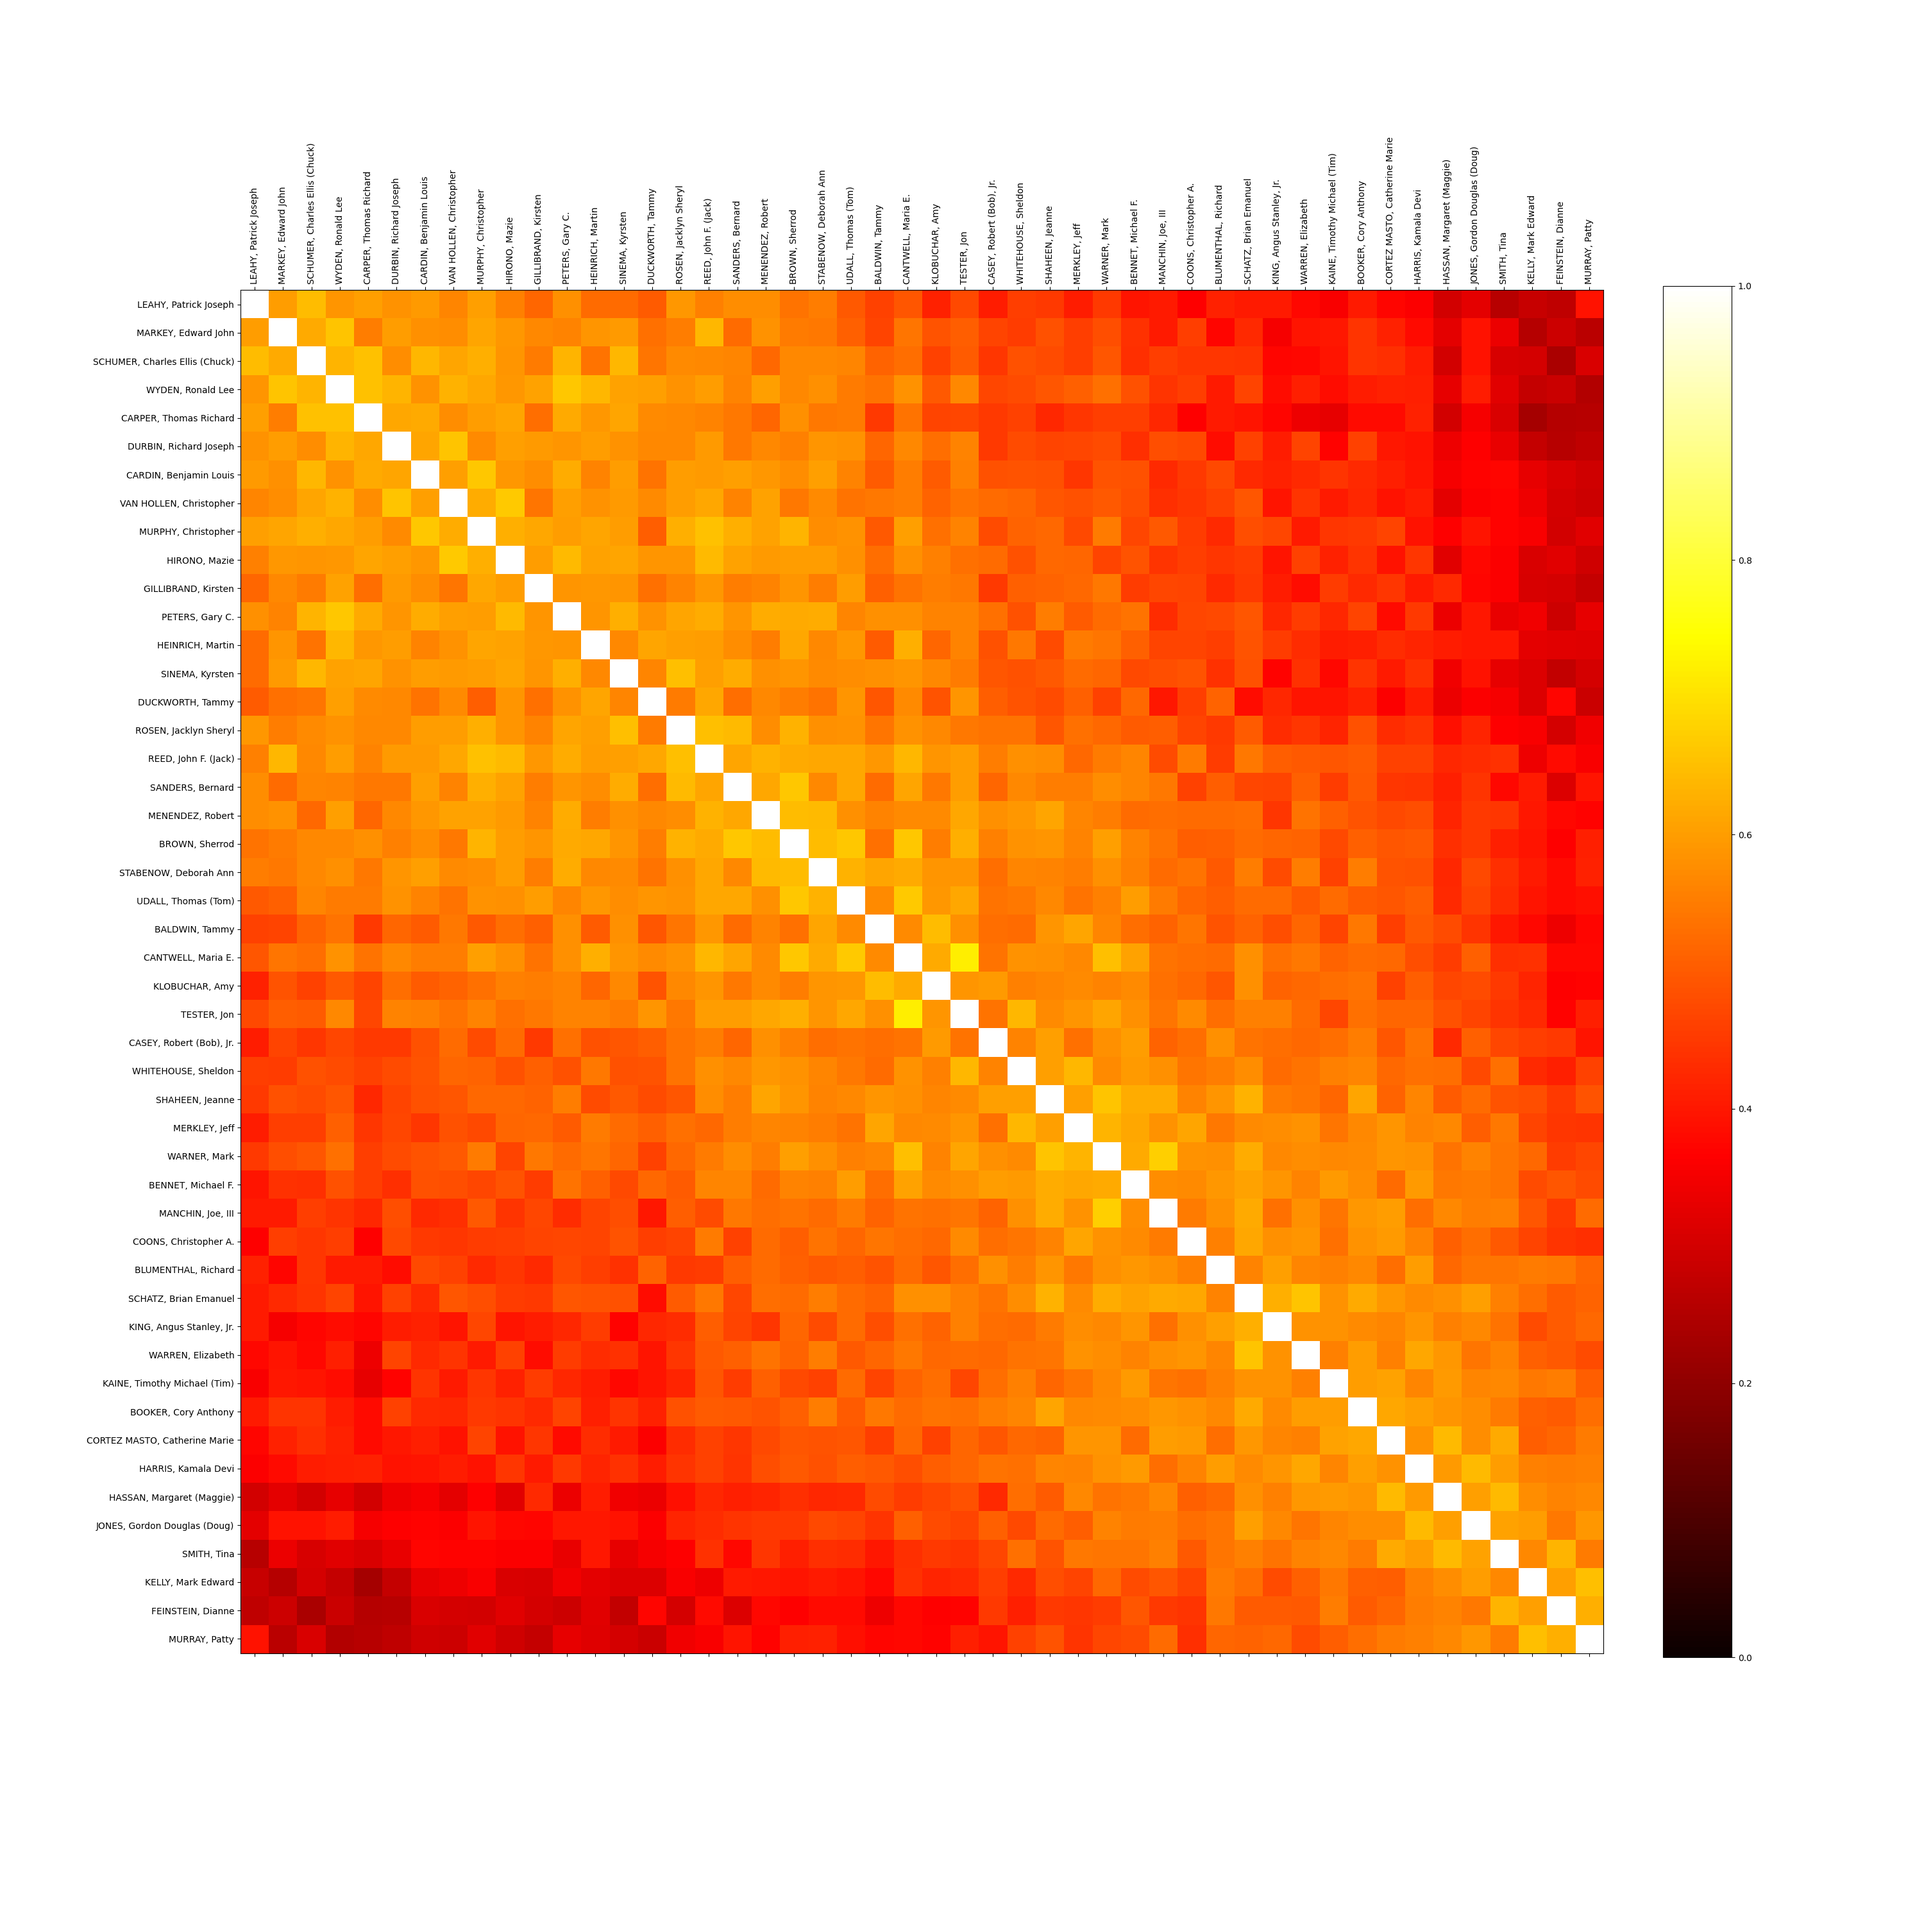
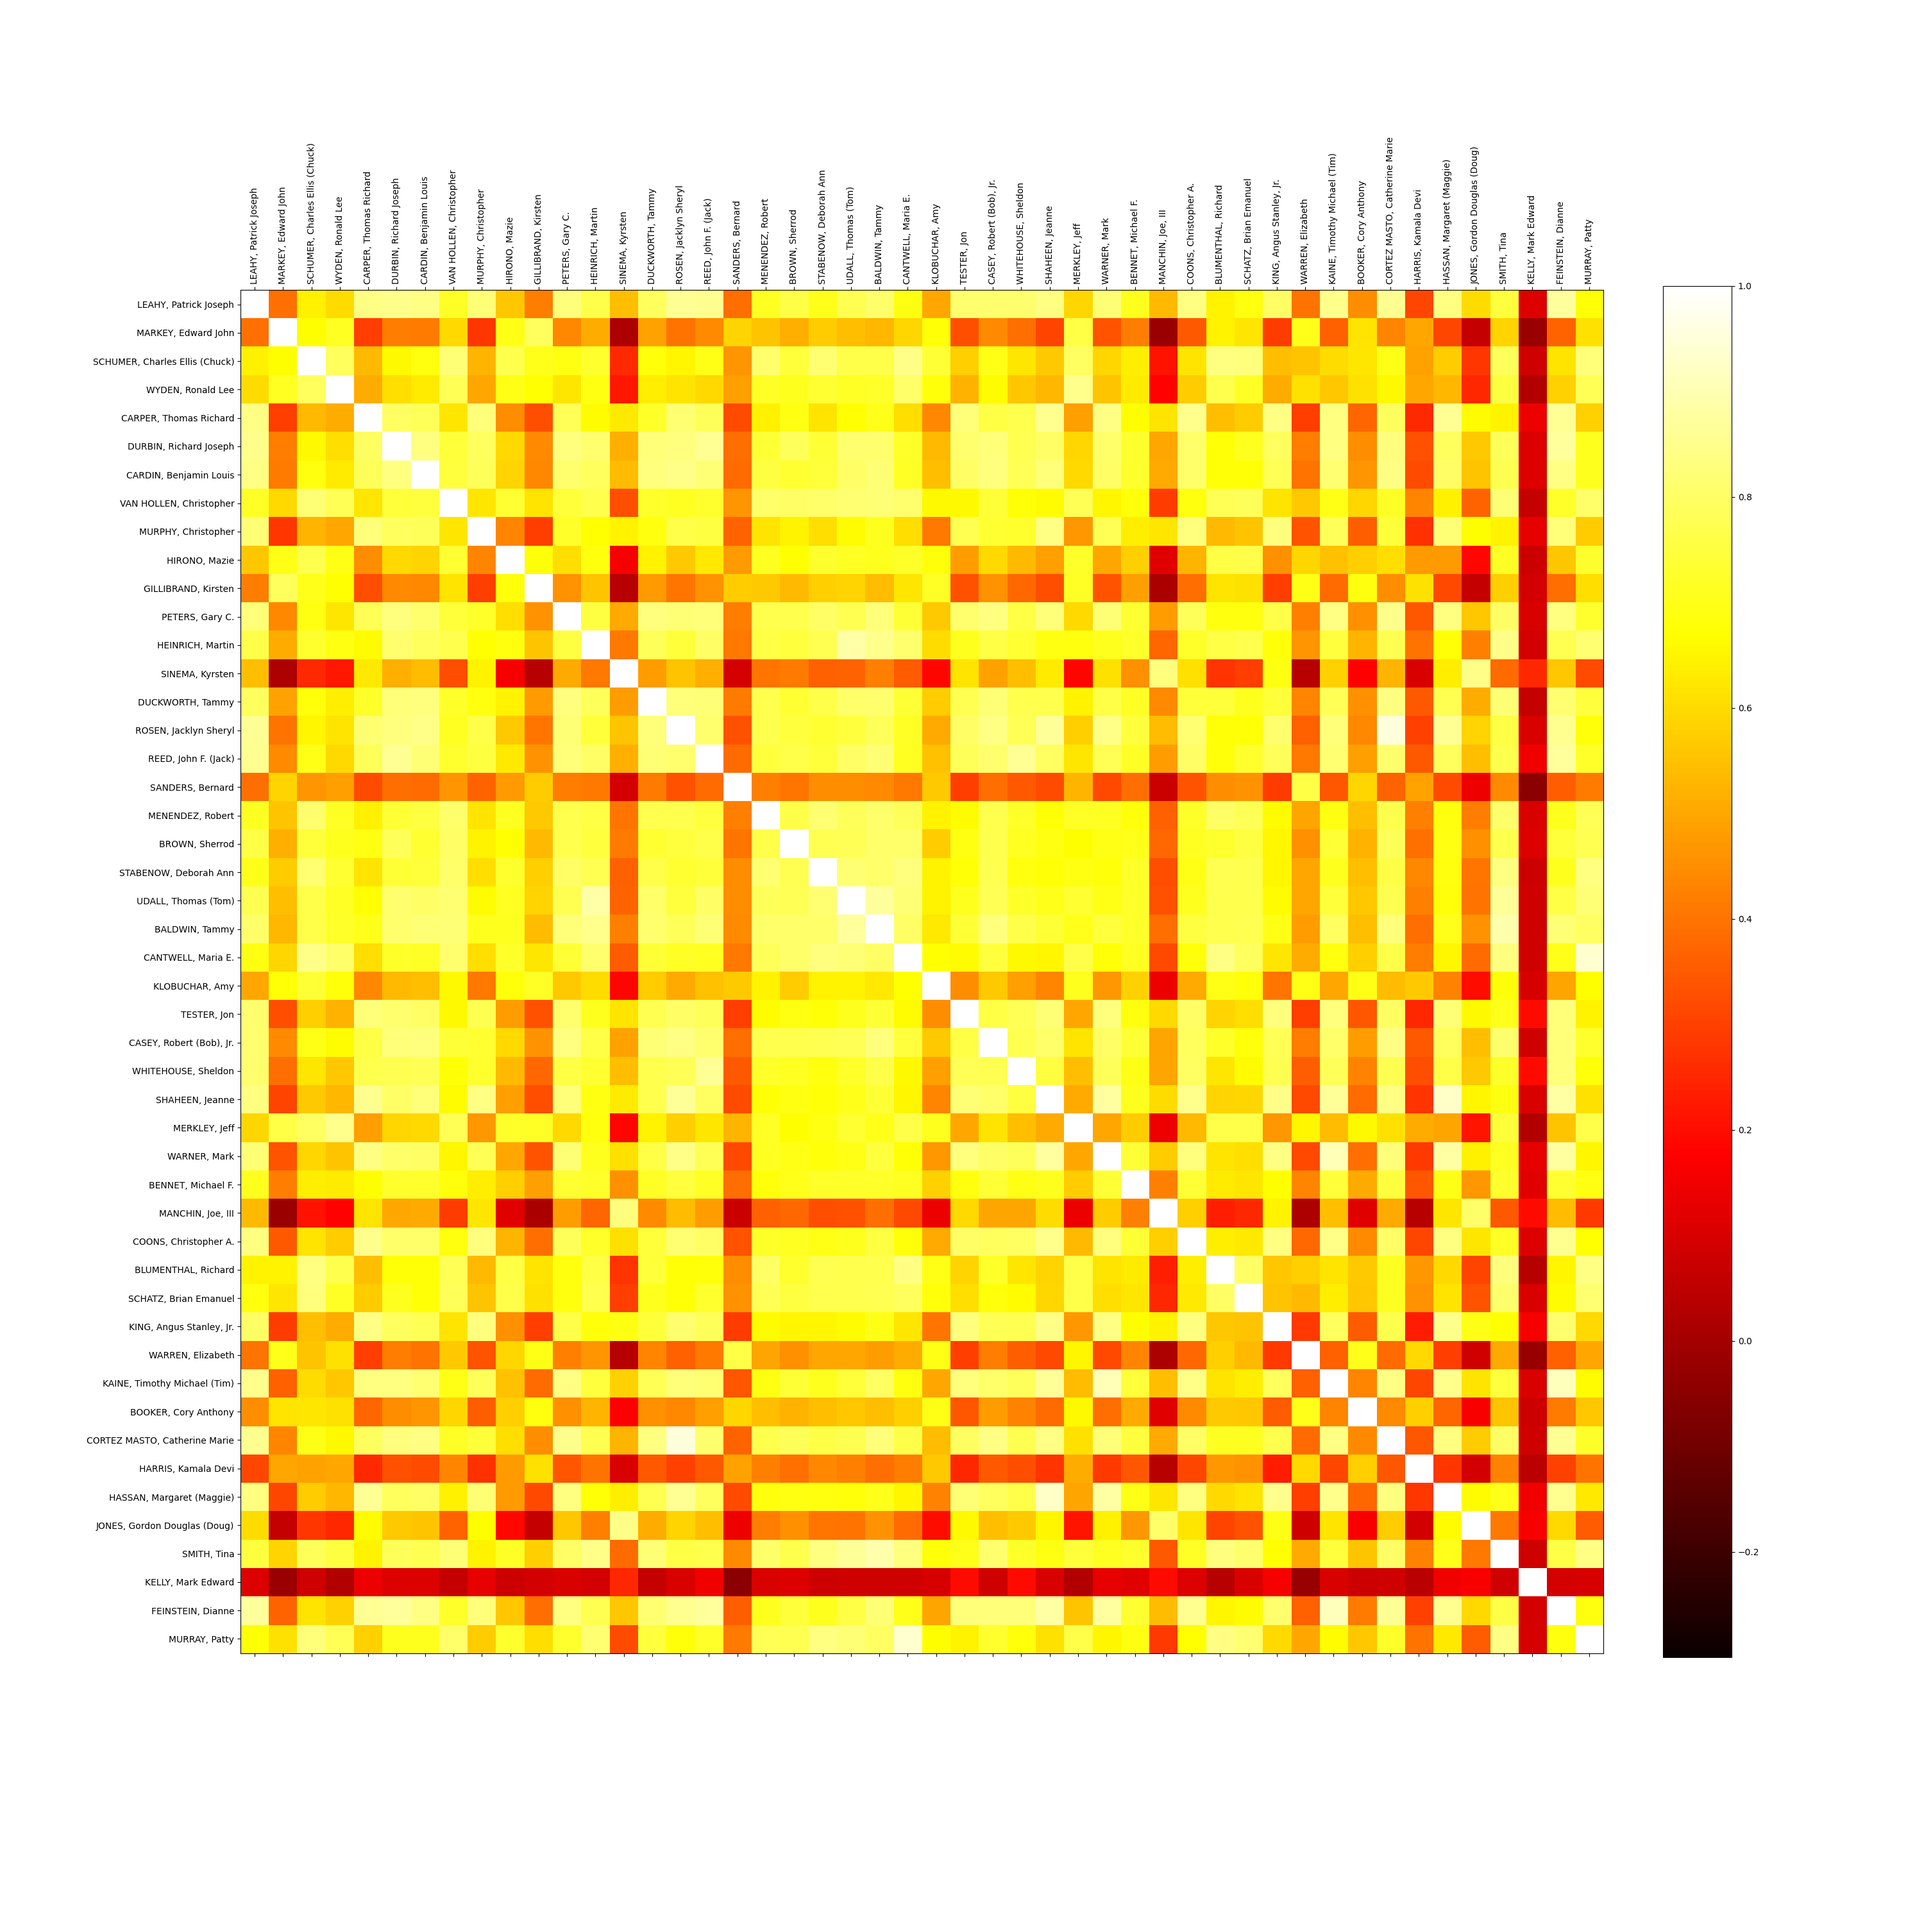
partisan split bug completely fixed, edge cases considered; other misc improvements in .py files

diff --git a/cosine_similarity.py b/cosine_similarity.py
@@ -9,30 +9,37 @@ import pandas as pd
 
 def split_votes_df_by_party(df_votes: pd.DataFrame, df_senators: pd.DataFrame) -> Tuple[pd.DataFrame, pd.DataFrame]:
 	
-	def calculate_most_popular_nonzero_vote(votes: pd.Series) -> int:
+	def calculate_most_popular_nonzero_votes(votes: pd.Series) -> np.ndarray:
 
 		counts = votes.value_counts()
 
-		if counts.index[0] != 0:
-			return counts.index[0]
-		elif len(counts) == 1:
-			raise ValueError('Unable to compute most popular nonzero vote due to unanimous abstinence.')
+		if len(counts) == 1:
+			if counts.index[0] != 0:
+				return np.array(counts.index[0])
+			else:
+				raise ValueError('Unable to compute most popular nonzero vote due to unanimous abstinence.')
 		else:
-			return counts.index[1]
+			if counts.index[0] != 0:
+				if counts.iloc[0] != counts.iloc[1]:
+					return np.array(counts.index[0])
+				else:
+					return np.array((counts.index[0], counts.index[1]))
+			else:
+				return np.array(counts.index[1])
 
-	
+
 	icpsr_to_party = dict(zip(df_senators['icpsr'], df_senators['party_code']))
 	
 	df_votes_party = df_votes.copy()
 	df_votes_party['party_code'] = df_votes.icpsr.map(icpsr_to_party)
 	df_votes_party = df_votes_party.merge(
-		df_votes_party.groupby(['party_code', 'rollnumber'])['cast_code'].apply(calculate_most_popular_nonzero_vote).rename(index='majority_vote'),
+		df_votes_party.groupby(['party_code', 'rollnumber'])['cast_code'].apply(calculate_most_popular_nonzero_votes).rename(index='majority_vote'),
 		how='left',
 		left_on=['party_code', 'rollnumber'],
 		right_index=True
 	)
 
-	df_votes_party['vote_relative_to_majority'] = df_votes_party.apply(lambda x: x.cast_code * x.majority_vote, axis=1)
+	df_votes_party['vote_relative_to_majority'] = df_votes_party.apply(lambda x: np.max(x.cast_code * x.majority_vote), axis=1)
 
 	df_votes_party = df_votes_party[['rollnumber', 'icpsr', 'vote_relative_to_majority', 'party_code']]
 
@@ -53,15 +60,23 @@ def create_vote_matrix(df_votes: pd.DataFrame) -> np.ndarray:
 	return vote_matrix
 
 
-def create_cosine_similarity_matrix(df_votes: pd.DataFrame) -> np.ndarray:
+def create_cosine_similarity_matrix(df_votes: pd.DataFrame, dissent_index: bool = False) -> np.ndarray:
 
 	vote_matrix = create_vote_matrix(df_votes)
 
 	d = vote_matrix.T @ vote_matrix
 	norm = (vote_matrix * vote_matrix).sum(0, keepdims=True) ** .5
 	cos_mat = d / norm / norm.T
+	
+	if dissent_index:
+		return 1 - cos_mat
+	else:
+		return cos_mat
 
-	return cos_mat
+
+def cos_sim_mat_sum(matrix: np.ndarray) -> np.ndarray:
+	
+	return np.sum(matrix, axis=1) # axis 0 and axis 1 have the same sums
 
 
 def plot_cosine_similarity_matrix(

diff --git a/senate_data.py b/senate_data.py
@@ -17,7 +17,8 @@ def create_senators_df() -> pd.DataFrame:
 
 	df_senators.party_code.replace(328, 100, inplace=True) # classify independents as democrats for simplicity
 
-	get_president_icpsrs(df_senators)
+	if 'president_icpsrs' not in globals():
+		get_president_icpsrs(df_senators)
 
 	df_senators.drop(df_senators[df_senators.icpsr.isin(president_icpsrs)].index, inplace=True)
 	df_senators = df_senators[['icpsr', 'state_abbrev', 'party_code', 'bioname']]
@@ -30,6 +31,7 @@ def create_votes_df() -> pd.DataFrame:
 	df_votes = pd.read_csv(VOTES_CSV_FP)
 
 	df_votes.drop(['congress', 'chamber', 'prob'], axis=1, inplace=True)
+	
 	df_votes.drop(df_votes[df_votes.icpsr.isin(president_icpsrs)].index, inplace=True)
 
 	df_votes['cast_code'] = df_votes['cast_code'].map({1: 1, 6: -1, 7: 0, 9: 0}) # reassign cast codes (1 for yea, -1 for nea, 0 for present or abstain)

diff --git a/effective_senators.py b/effective_senators.py
@@ -6,7 +6,7 @@ import numpy as np
 
 def compute_num_effective_senators(matrix: np.ndarray) -> float:
 
-	vote_record_freqs = np.unique(matrix, return_counts=True, axis=0)[1] # frequencies of unique columns of vote matrix
+	vote_record_freqs = np.unique(matrix, return_counts=True, axis=1)[1] # frequencies of unique rows of vote matrix
 
 	vote_record_relative_freqs = vote_record_freqs / sum(vote_record_freqs) # normalization
 
